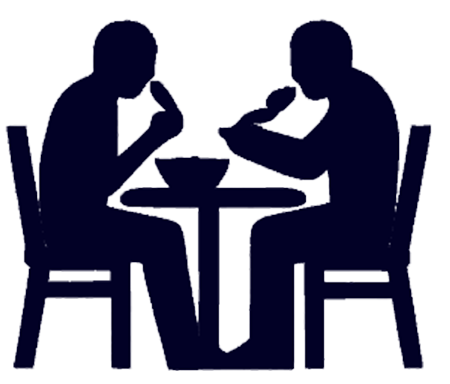
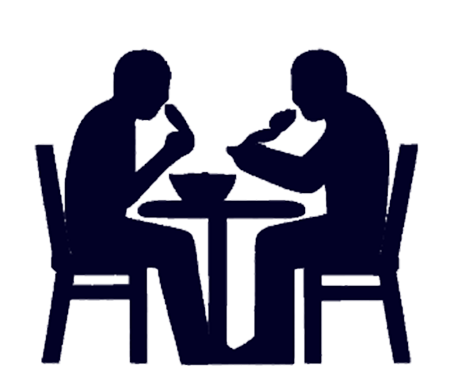
Adjusted gfx render on mobile devices
Fixed selectors

More fucking around with selectors.

Adjusted gfx

Cached gfx

Changed region(s): [[0.0, 0.0312, 0.9644, 0.9688]]

diff --git a/public/Templates/learnVerbsTemplate.html b/public/Templates/learnVerbsTemplate.html
@@ -18,13 +18,6 @@
                 justify-content: center;
                 align-items: center;
             }
-
-            #img {
-                max-height: 50vh; /*50% of the viewport height */
-                width: auto; /*Maintain aspect ratio */
-                display: block; /*Remove extra space below the image */
-                margin: 0 auto; /*Center image horizontally */
-            }
             
             /*Mobile devices.*/
             @media (max-width: 430px) {
@@ -43,7 +36,7 @@
         <div class="currentVerbDiv">
             <label id="lblCurrentVerb" class="currentVerb" style="cursor: pointer;">A</label>
             <label id="lblCurrentAppVerb" class="currentAppVerb">A</label>
-            <img id="img">
+            <img id="img" class="responsiveImage">
         </div>    
     </div>
 </template>

diff --git a/public/serviceWorker.js b/public/serviceWorker.js
@@ -12,7 +12,8 @@ self.addEventListener("install", (event) => {
             "/bundle.js",
             "/data",
             "/Templates",
-            "/Locales"
+            "/Locales",
+            "/server-images"
         ]),
     );
 });

diff --git a/public/Style.css b/public/Style.css
@@ -21,6 +21,13 @@
     border-radius: 50%;
 }
 
+.responsiveImage {
+    max-width: 100%;
+    height: auto;
+    display: block;
+    margin: 0 auto;
+}
+
 .toast {
     position: fixed;
     bottom: 20px;
